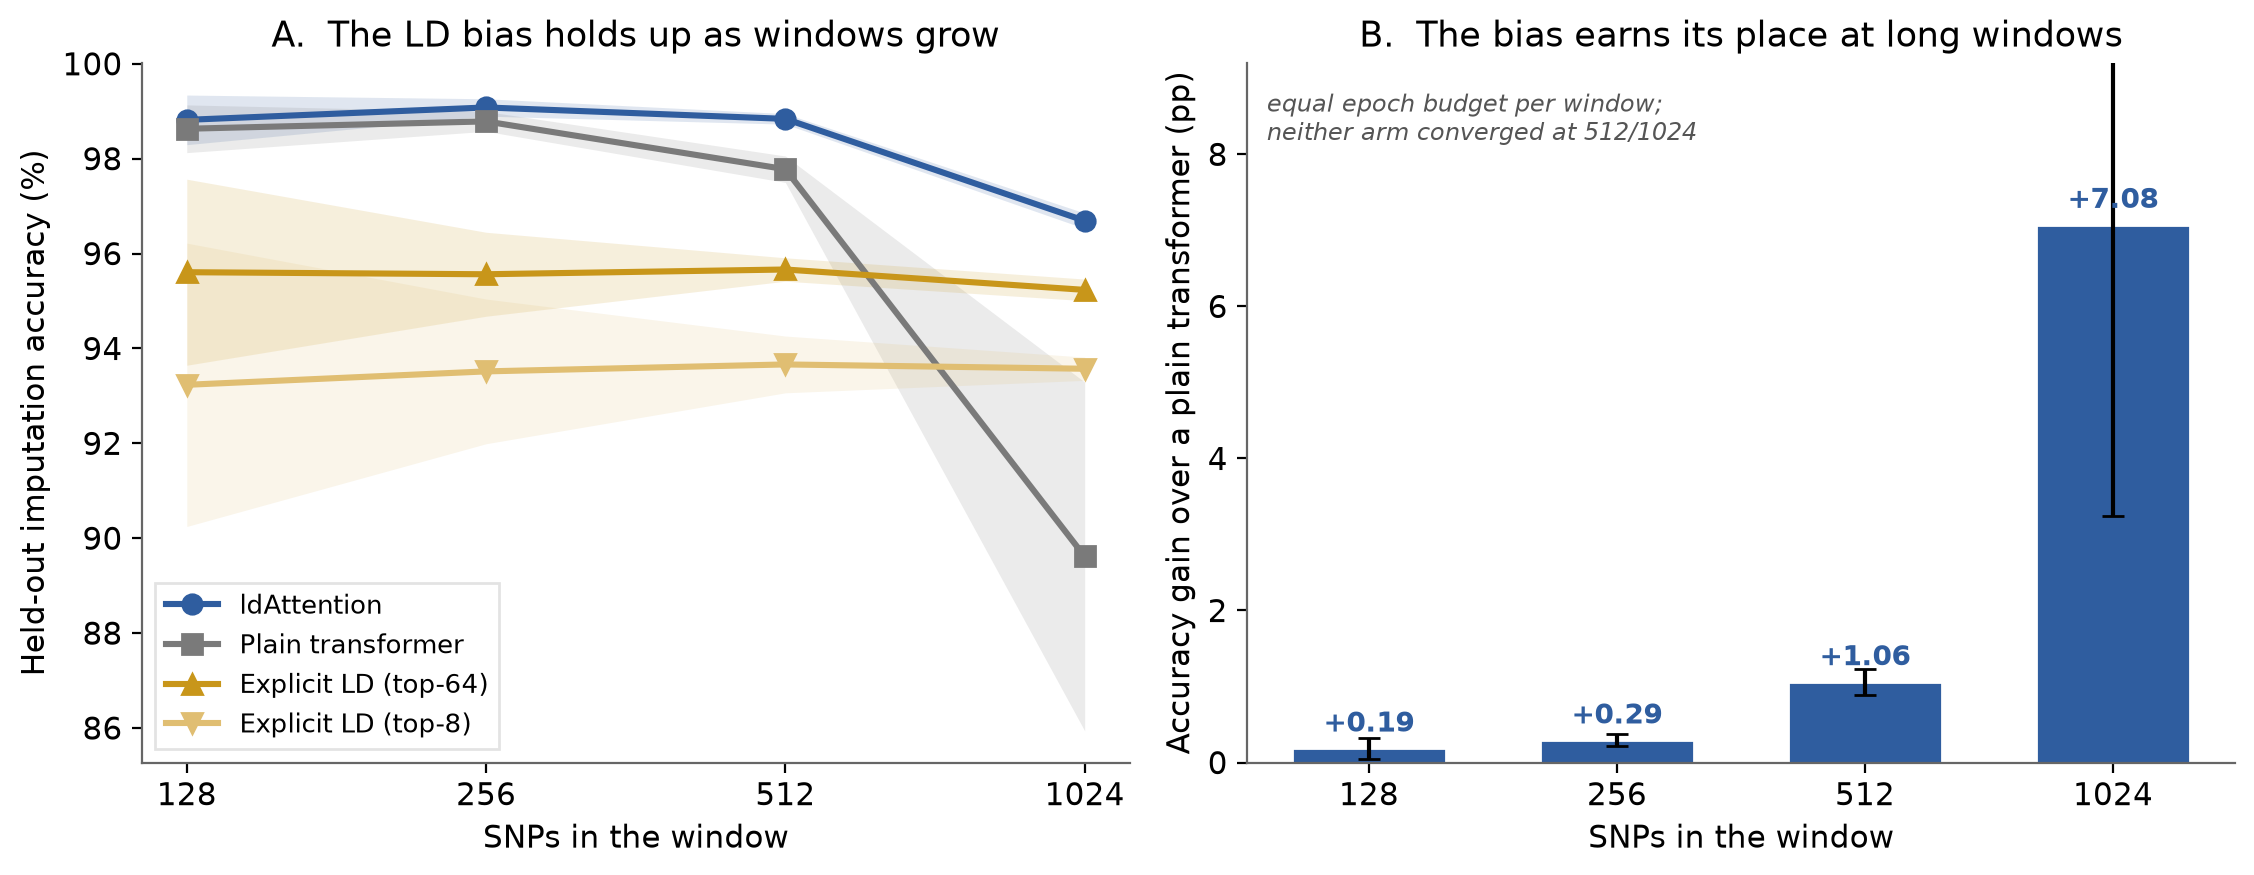
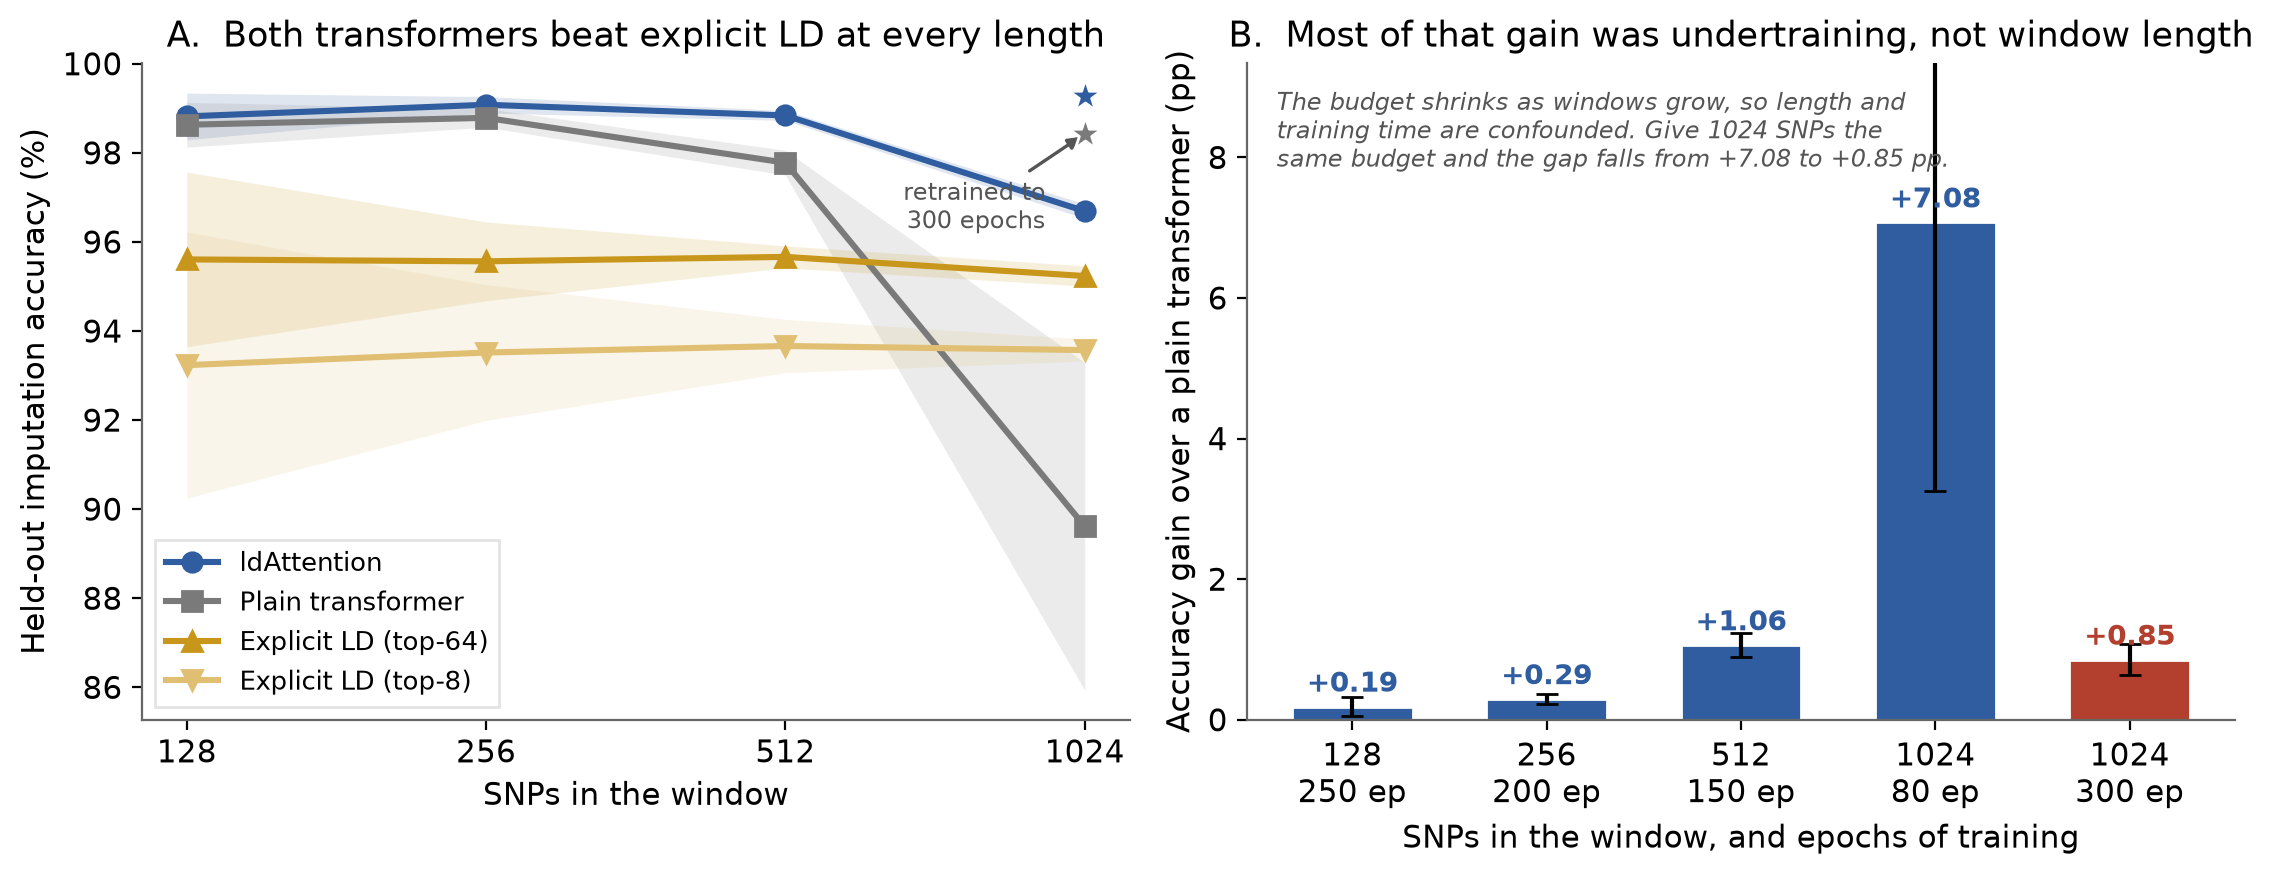
Retrain the longest window to a full budget; most of its gain was undertraining
The window sweep shrank the epoch budget as windows grew (250 down to 80), so
window length and training time were confounded, and every 1024-SNP run was
still improving when it stopped. Giving both arms 300 epochs there cuts the LD
bias's advantage over a plain transformer from +7.08 to +0.85 pp, and reverses
the secondary claim: the plain transformer no longer loses to the all-partner
explicit-LD control, it beats it by 3.18 pp.

What holds is that both transformers clear explicit LD by a wide margin at 1024
SNPs (99.28 and 98.43 against 95.25), and the bias is still ahead on both seeds
with better dosage r^2. Three of the four new runs again ended at the cap, so
+0.85 pp is an upper bound.

diff --git a/scripts/make_scale_figures.py b/scripts/make_scale_figures.py
@@ -47,12 +47,24 @@ def _ms(values: list[float]) -> tuple[float, float]:
     return mean(values), (pstdev(values) if len(values) > 1 else 0.0)
 
 
+def _paired_gap(rows: list[dict]) -> tuple[float, float]:
+    """Mean and sd of (ldAttention - plain transformer) over shared seeds."""
+    both = {int(r["seed"]): float(r["accuracy"]) for r in rows if r["arm"] == "both"}
+    plain = {int(r["seed"]): float(r["accuracy"]) for r in rows if r["arm"] == "no_bias"}
+    paired = [both[s] - plain[s] for s in sorted(set(both) & set(plain))]
+    return _ms(paired)
+
+
 def window_figure() -> Path:
     rows = _rows("window_short/window_raw.csv", "window_long/window_raw.csv")
     by_len: dict[int, list[dict]] = defaultdict(list)
     for r in rows:
         by_len[int(r["n_sites"])].append(r)
     lengths = sorted(by_len)
+    # The per-window budget falls as L grows, so the sweep confounds window
+    # length with training time. This run retrains the longest window for the
+    # budget a short window got, which is what separates the two.
+    converged = _rows("window_converge/window_raw.csv")
 
     series = {
         "ldAttention": ("accuracy", "both", BLUE, "o"),
@@ -72,31 +84,49 @@ def window_figure() -> Path:
     ax.set_xscale("log", base=2)
     ax.set_xticks(lengths)
     ax.set_xticklabels([str(L) for L in lengths])
+    if converged:
+        L_c = int(converged[0]["n_sites"])
+        for arm, color in (("both", BLUE), ("no_bias", GREY)):
+            vals = [100 * float(r["accuracy"]) for r in converged if r["arm"] == arm]
+            ax.scatter([L_c], [mean(vals)], s=150, marker="*", color=color,
+                       edgecolor="white", zorder=4)
+        ax.annotate("retrained to\n300 epochs", (L_c, mean(
+            [100 * float(r["accuracy"]) for r in converged if r["arm"] == "no_bias"])),
+            textcoords="offset points", xytext=(-14, -34), ha="right", fontsize=8.5,
+            color="#555555", arrowprops=dict(arrowstyle="-|>", color="#555555", lw=1.2))
     ax.set_xlabel("SNPs in the window")
     ax.set_ylabel("Held-out imputation accuracy (%)")
-    ax.set_title("A.  The LD bias holds up as windows grow")
+    ax.set_title("A.  Both transformers beat explicit LD at every length")
     ax.legend(frameon=True, fancybox=False, edgecolor="#dddddd", loc="lower left")
 
     ax = axes[1]
-    deltas, errs = [], []
+    labels, deltas, errs, colors = [], [], [], []
     for L in lengths:
-        both = {int(r["seed"]): float(r["accuracy"]) for r in by_len[L] if r["arm"] == "both"}
-        plain = {int(r["seed"]): float(r["accuracy"]) for r in by_len[L] if r["arm"] == "no_bias"}
-        paired = [both[s] - plain[s] for s in sorted(set(both) & set(plain))]
-        m, s = _ms(paired)
+        m, s = _paired_gap(by_len[L])
+        labels.append(f"{L}\n{by_len[L][0]['epochs']} ep")
         deltas.append(100 * m)
         errs.append(100 * s)
-    bars = ax.bar([str(L) for L in lengths], deltas, yerr=errs, capsize=4,
-                  color=BLUE, edgecolor="white", width=0.62)
+        colors.append(BLUE)
+    if converged:
+        m, s = _paired_gap(converged)
+        labels.append(f"{converged[0]['n_sites']}\n{converged[0]['epochs']} ep")
+        deltas.append(100 * m)
+        errs.append(100 * s)
+        colors.append(RED)
+    bars = ax.bar(labels, deltas, yerr=errs, capsize=4, color=colors,
+                  edgecolor="white", width=0.62)
     for bar, d in zip(bars, deltas):
-        ax.text(bar.get_x() + bar.get_width() / 2, d + 0.22, f"{d:+.2f}",
-                ha="center", fontsize=10, fontweight="bold", color=BLUE)
+        ax.text(bar.get_x() + bar.get_width() / 2, d + max(deltas) * 0.03, f"{d:+.2f}",
+                ha="center", fontsize=10, fontweight="bold", color=bar.get_facecolor())
     ax.axhline(0, color=DARK, lw=1)
-    ax.set_xlabel("SNPs in the window")
+    ax.set_xlabel("SNPs in the window, and epochs of training")
     ax.set_ylabel("Accuracy gain over a plain transformer (pp)")
-    ax.set_title("B.  The bias earns its place at long windows")
-    ax.set_ylim(0, max(deltas) * 1.30)
-    ax.text(0.02, 0.96, "equal epoch budget per window;\nneither arm converged at 512/1024",
+    ax.set_title("B.  Most of that gain was undertraining, not window length")
+    ax.set_ylim(0, max(deltas) * 1.32)
+    ax.text(0.03, 0.96,
+            "The budget shrinks as windows grow, so length and\n"
+            "training time are confounded. Give 1024 SNPs the\n"
+            "same budget and the gap falls from +7.08 to +0.85 pp.",
             transform=ax.transAxes, va="top", fontsize=8.5, color="#555555", style="italic")
 
     fig.tight_layout()
